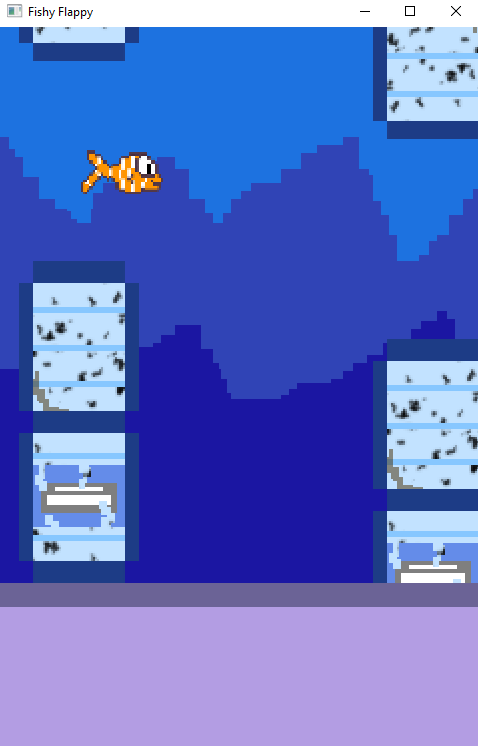
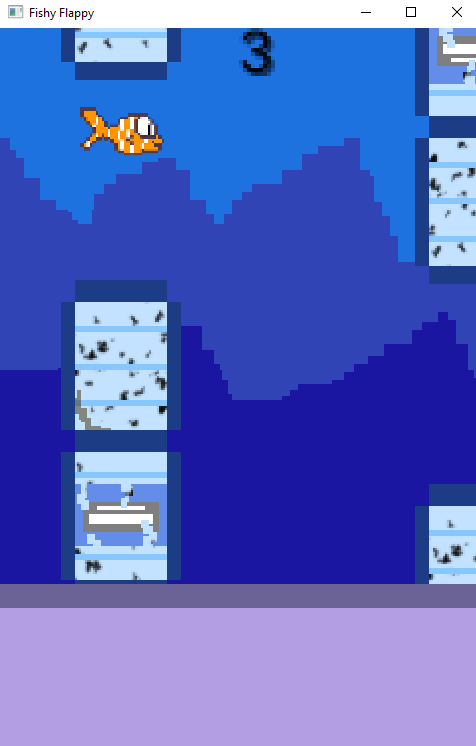
Guardar puntuaciones y highscore

diff --git a/core/src/com/erdarkniel/fishyflappy/states/GameOver.java b/core/src/com/erdarkniel/fishyflappy/states/GameOver.java
@@ -1,27 +1,62 @@
 package com.erdarkniel.fishyflappy.states;
 import com.badlogic.gdx.Gdx;
+import com.badlogic.gdx.Preferences;
 import com.badlogic.gdx.graphics.Color;
 import com.badlogic.gdx.graphics.Pixmap;
 import com.badlogic.gdx.graphics.Texture;
 import com.badlogic.gdx.graphics.g2d.BitmapFont;
 import com.badlogic.gdx.graphics.g2d.SpriteBatch;
+import com.badlogic.gdx.graphics.g2d.TextureRegion;
 import com.erdarkniel.fishyflappy.FishyFlappy;
+import com.erdarkniel.fishyflappy.sprites.Animation;
+
 public class GameOver extends State{
-    private final int MENUXLEFT=115,MENUXRIGHT=365,MENUYUP=645,MENUYDOWN=705;
-    private Texture bg,gotomenubtn,game_over;
+    private final int MENUXLEFT=115,MENUXRIGHT=959,MENUYUP=1342,MENUYDOWN=1555;
+    private Texture bg,gotomenubtn,game_over, newbest;
+    BitmapFont puntuacion;
+    BitmapFont hs;
+    private int highScore=0;
+    Animation nbanim;
+    Preferences prefs = Gdx.app.getPreferences("game preferences");
+    int score;
+    private boolean show = false;
     //private BitmapFont puntuacion;
     //private PlayState playState;
     public GameOver(GameStateManager gameStateManager) {
         super(gameStateManager);
         camera.setToOrtho(false, FishyFlappy.WIDTH/2, FishyFlappy.HEIGHT/2);
+        score = PlayState.getTotalScore();
+        puntuacion = new BitmapFont();
+        puntuacion.setColor(Color.WHITE);
+        puntuacion.getData().setScale(2);
+        hs = new BitmapFont();
+        hs.setColor(Color.WHITE);
+        hs.getData().setScale(2);
+
+
+
+        if (PlayState.totalscore > prefs.getInteger("highscore")) {
+            show = true;
+            prefs.putInteger("highscore", PlayState.totalscore);
+            prefs.flush();
+            highScore = PlayState.totalscore;
+
+        }
+
         Pixmap pixmapGT = new Pixmap(Gdx.files.internal("go-to-menu-btn.png"));
-        Pixmap pixmapPT = new Pixmap(200, 300, pixmapGT.getFormat());
+        Pixmap pixmapPT = new Pixmap(300, 440, pixmapGT.getFormat());
         pixmapPT.drawPixmap(pixmapGT,
                 0, 0, pixmapGT.getWidth(), pixmapGT.getHeight(),
                 0, 0, pixmapPT.getWidth(), pixmapPT.getHeight()
-        );
-        Pixmap pixmapG = new Pixmap(Gdx.files.internal("game_over.png"));
-        Pixmap pixmapP = new Pixmap(340, 200, pixmapG.getFormat());
+        );/*
+        Pixmap pixmapGR = new Pixmap(Gdx.files.internal("reload_button.png"));
+        Pixmap pixmapPR = new Pixmap(60, 60, pixmapGR.getFormat());
+        pixmapPT.drawPixmap(pixmapGR,
+                0, 0, pixmapGR.getWidth(), pixmapGR.getHeight(),
+                0, 0, pixmapPR.getWidth(), pixmapPR.getHeight()
+        );*/
+        Pixmap pixmapG = new Pixmap(Gdx.files.internal("game over.png"));
+        Pixmap pixmapP = new Pixmap(270, 450, pixmapG.getFormat());
         pixmapP.drawPixmap(pixmapG,
                 0, 0, pixmapG.getWidth(), pixmapG.getHeight(),
                 0, 0, pixmapP.getWidth(), pixmapP.getHeight()
@@ -29,27 +64,49 @@ public class GameOver extends State{
         bg = new Texture("bg.png");
         gotomenubtn = new Texture(pixmapPT);
         game_over = new Texture(pixmapP);
+
+        Pixmap pixmapGNB = new Pixmap(Gdx.files.internal("new best.png"));
+        Pixmap pixmapPNB = new Pixmap(540, 450, pixmapGNB.getFormat());
+        pixmapPNB.drawPixmap(pixmapGNB,
+                0, 0, pixmapGNB.getWidth(), pixmapGNB.getHeight(),
+                0, 0, pixmapPNB.getWidth(), pixmapPNB.getHeight()
+        );
+        newbest = new Texture(pixmapPNB);
+        nbanim = new Animation(new TextureRegion(newbest),2,0.5f);
+
+        //resume = new Texture(pixmapPR);
         /*puntuacion = new BitmapFont();
         puntuacion.setColor(Color.BLACK);
         puntuacion.getData().setScale(2);*/
         //playState = new PlayState(gameStateManager);
         //System.out.println(playState.arrayScore.get(playState.arrayScore.size()-1));
     }
+
     @Override
     protected void handleInput() {
 
         if (Gdx.input.getX()>=MENUXLEFT&&Gdx.input.getX()<=MENUXRIGHT&&
                 Gdx.input.getY()>=MENUYUP&&Gdx.input.getY()<=MENUYDOWN){
             if (Gdx.input.justTouched()){
+                PlayState.totalscore=0;
+                show = false;
                 gsm.set(new MenuState(gsm));//Devuelve al jugador al MenuState
             }
         }
+        //System.out.println(Gdx.input.getY()+""+camera.position.x);
+       //System.out.println("Posicion y "+Gdx.input.getY());
+
+
+       // System.out.println(prefs.getInteger("highScore"));
+
     }
 
     @Override
     public void update(float dt) {
         handleInput();
         camera.update();
+
+
     }
 
     @Override
@@ -58,8 +115,14 @@ public class GameOver extends State{
         spriteBatch.begin();
         //playState.puntuacion.draw(spriteBatch, String.valueOf(playState.totalscore),camera.position.x-(camera.viewportWidth/bg.getWidth()), camera.position.y+(camera.viewportHeight/2));
         spriteBatch.draw(bg,camera.position.x-(camera.viewportWidth/2),camera.position.y-(camera.viewportHeight/2));
-        spriteBatch.draw(gotomenubtn,camera.position.x - gotomenubtn.getWidth()/2,camera.position.y - gotomenubtn.getHeight());
-        spriteBatch.draw(game_over,camera.position.x - game_over.getWidth()/2,camera.position.y + game_over.getHeight()/10);
+        spriteBatch.draw(gotomenubtn,camera.position.x - gotomenubtn.getWidth()/2,camera.position.y - gotomenubtn.getHeight()+120);
+        spriteBatch.draw(game_over,-16,-50);
+        if(show)
+        spriteBatch.draw(getNewBest(), -16,-50);
+        puntuacion.draw(spriteBatch, String.valueOf(score),camera.position.x-(camera.viewportWidth/bg.getWidth()+5), camera.position.y+(camera.viewportHeight/2)-140);
+        hs.draw(spriteBatch, String.valueOf(prefs.getInteger("highscore")),camera.position.x-(camera.viewportWidth/bg.getWidth()+5), camera.position.y+(camera.viewportHeight/2)-210);
+
+
         spriteBatch.end();
     }
 
@@ -68,4 +131,6 @@ public class GameOver extends State{
         bg.dispose();
         gotomenubtn.dispose();
     }
+
+    public TextureRegion getNewBest() {return nbanim.getFrame();}
 }

diff --git a/core/src/com/erdarkniel/fishyflappy/states/PlayState.java b/core/src/com/erdarkniel/fishyflappy/states/PlayState.java
@@ -1,5 +1,7 @@
 package com.erdarkniel.fishyflappy.states;
 
+
+
 import com.badlogic.gdx.Gdx;
 import com.badlogic.gdx.audio.Music;
 import com.badlogic.gdx.graphics.Color;
@@ -9,11 +11,8 @@ import com.badlogic.gdx.graphics.g2d.SpriteBatch;
 import com.badlogic.gdx.math.Vector2;
 import com.badlogic.gdx.utils.Array;
 import com.erdarkniel.fishyflappy.FishyFlappy;
-import com.erdarkniel.fishyflappy.sprites.Fish;
 import com.erdarkniel.fishyflappy.sprites.Bottle;
-
-import java.util.ArrayList;
-import java.util.Collections;
+import com.erdarkniel.fishyflappy.sprites.Fish;
 
 public class PlayState extends State{
     private static final int bottle_SPACING = 125;
@@ -23,10 +22,12 @@ public class PlayState extends State{
     private Texture bg,ground;
     private Vector2 groundPos1,groundPos2;
     private Array<Bottle> bottles;
+
     //Puntuacion
     //ArrayList<Integer> arrayScore = new ArrayList<Integer>();
     /*private*/BitmapFont puntuacion;
-    int score = 0,totalscore=0;
+    int score = 0;
+    static int totalscore=0;
     //Musica del juego
     private Music music;
     public PlayState(GameStateManager gameStateManager) {
@@ -82,9 +83,14 @@ public class PlayState extends State{
                 //Gdx.app.log("Total Score", String.valueOf(totalscore));
             }
         }
+
+        //TRABAJAR SOBRE ESTE CON LA BASE DE DATOS
         if (fish.getPosition().y <= ground.getHeight()+GROUND_Y_OFFSET){
             gsm.set(new GameOver(gsm));
-            //Gdx.app.log("Total Score", String.valueOf(totalscore));
+            Gdx.app.log("Total Score", String.valueOf(totalscore));
+
+            totalscore = 0;
+
         }
         camera.update();
     }
@@ -137,5 +143,10 @@ public class PlayState extends State{
         Collections.sort(arrayScore);
         return totalscore;
     }*/
-    public void puause(){}
+    public static int getTotalScore(){
+
+        return totalscore;
+    }
+
+
 }

diff --git a/core/src/com/erdarkniel/fishyflappy/states/MenuState.java b/core/src/com/erdarkniel/fishyflappy/states/MenuState.java
@@ -5,9 +5,12 @@ import com.badlogic.gdx.graphics.Pixmap;
 import com.badlogic.gdx.graphics.Texture;
 import com.badlogic.gdx.graphics.g2d.SpriteBatch;
 import com.erdarkniel.fishyflappy.FishyFlappy;
+
+import jdk.internal.org.jline.utils.Display;
+
 public class MenuState extends State{
-    private final int PLAYXLEFT=130,PLAYXRIGHT=350,PLAYYUP=360,PLAYYDOWN=560;
-    private final int EXITXLEFT=80,EXITXRIGHT=400,EXITYUP=595,EXITYDOWN=700;
+    private final int PLAYXLEFT=(int)(Gdx.graphics.getWidth()/2.8),PLAYXRIGHT=(int)(Gdx.graphics.getWidth()-Gdx.graphics.getWidth()/2.8),PLAYYUP=(int)(Gdx.graphics.getHeight()-Gdx.graphics.getHeight()/2),PLAYYDOWN=(int)(Gdx.graphics.getHeight()-Gdx.graphics.getHeight()/4.407);
+    private final int EXITXLEFT=(int)(Gdx.graphics.getWidth()*0.165),EXITXRIGHT=(int)(Gdx.graphics.getWidth()*0.83981),EXITYUP=(int)(Gdx.graphics.getHeight()*0.8522),EXITYDOWN=(int)(Gdx.graphics.getHeight()*0.98606);
     private Texture bg,playBtn,title,fish,exit;
     public MenuState(GameStateManager gameStateManager) {
         super(gameStateManager);
@@ -60,8 +63,8 @@ public class MenuState extends State{
                 Gdx.app.exit();
             }
         }
-        //System.out.println("Posicion x "+Gdx.input.getX());
-        //System.out.println("Posicion y "+Gdx.input.getY());
+        //System.out.println(Gdx.graphics.getWidth());
+        System.out.println(Gdx.graphics.getHeight());
     }
 
     @Override

diff --git a/core/src/com/erdarkniel/fishyflappy/states/SplashScreen.java b/core/src/com/erdarkniel/fishyflappy/states/SplashScreen.java
@@ -8,7 +8,7 @@ import com.erdarkniel.fishyflappy.FishyFlappy;
 public class SplashScreen extends State{
     private float lifeTime;
     private Long delay = 2L; //1000 milliseconds per second, so 2 seconds.
-    private Texture title,fish;
+    private Texture title,fish, bg;
     public SplashScreen(GameStateManager gameStateManager) {
         super(gameStateManager);
         camera.setToOrtho(false, FishyFlappy.WIDTH/2, FishyFlappy.HEIGHT/2);
@@ -26,6 +26,7 @@ public class SplashScreen extends State{
                 0, 0, pixmapPF.getWidth(), pixmapPF.getHeight()
         );
         fish = new Texture(pixmapPF);
+        bg = new Texture(Gdx.files.internal("bg.png"));
     }
     @Override
     public void handleInput() {
@@ -45,6 +46,7 @@ public class SplashScreen extends State{
     public void render(SpriteBatch spriteBatch) {
         spriteBatch.setProjectionMatrix(camera.combined);
         spriteBatch.begin();
+        spriteBatch.draw(bg,camera.position.x-(camera.viewportWidth/2),camera.position.y-(camera.viewportHeight/2));
         spriteBatch.draw(title,camera.position.x - title.getWidth()/2,camera.position.y - title.getHeight());
         spriteBatch.draw(fish,camera.position.x - fish.getWidth()/2,camera.position.y);
         spriteBatch.end();

diff --git a/core/src/com/erdarkniel/fishyflappy/sprites/Fish.java b/core/src/com/erdarkniel/fishyflappy/sprites/Fish.java
@@ -21,7 +21,7 @@ public class Fish {
         position = new Vector3(x,y,0);
         velocity = new Vector3(0,0,0);
         Pixmap pixmapG = new Pixmap(Gdx.files.internal("fishanimation.png"));
-        Pixmap pixmapP = new Pixmap(100, 24, pixmapG.getFormat());
+        Pixmap pixmapP = new Pixmap(130, 24, pixmapG.getFormat());
         pixmapP.drawPixmap(pixmapG,
                 0, 0, pixmapG.getWidth(), pixmapG.getHeight(),
                 0, 0, pixmapP.getWidth(), pixmapP.getHeight()

diff --git a/README.md b/README.md
@@ -54,11 +54,41 @@ lo podemos encontrar en el archivo [Fish](./core/src/com/erdarkniel/fishyflappy/
 
 Actualmente el proyecto se encuentra como las imágenes mostradas a continuación.
 
-Falta realizar las animaciones del Splash Screen por lo que se ve todo azul.
+Actualmente contamos con un [SplashScreen](./core/src/com/erdarkniel/fishyflappy/states/SplashScreen.java) sencillo debido a que para poder reproducir un vídeo dentro de la aplicación es necesario importar una librería la cual nos
+da errores debido a los métodos de los cuales extiende (State), y al intentar reproducir un .gif la calidad de las imágenes disminuye y solo se muestra un solo frame,
+por lo que la solución encontrada fue dividir la animación en una secuencia de pngs, sin embargo, a la hora de redimensionar estás imágenes con pixmaps, las librerías
+no nos permiten su perfecta colocación mediante coordenadas, por lo que decidimos hacer un Splash Screen provisional mientras solucionamos el problema.
 
 ![Splash Screen](./Screenshots/splashscreen.png)
 
+En cuanto al [Menú principal](./core/src/com/erdarkniel/fishyflappy/states/MenuState.java) de la aplicación encontramos un error el cual era de que no podemos trabajar
+con coordenadas debido a que estas se guían por el tamaño de píxeles del dispositivo, por lo que la colocación de los botones era distinto en cada dispositivo que se jugara.
+Para solucionarlo, hemos implementado formulas matemáticas basándonos en las coordenadas originales de un dispositivo, de esta forma, para todos los dispositivos tenemos
+los botones perfectamente posicionados (capturas de la solución en la parte inferior a esta explicación).
+
+![Solución coordenadas en código](./Screenshots/coordenadas.png) ![Solución coordenadas en fórmula](./Screenshots/formula.png)
+
 ![Menu Screen](./Screenshots/menuscreen.png)
+
+En cuanto al [PlayState](./core/src/com/erdarkniel/fishyflappy/states/PlayState.java), los cambios implementados han sido poder introducir un sistema de puntuación el cual sume un punto al score cada vez que se pasen las botellas.
+Sin embargo esto es un modelo provisional, debido a que estamos realizando cambios para que las botellas esten flotando a lo largo de la pantalla y que, claramente sean más pequeñas,
+sin embargo, estamos teniendo problemas a la hora de modificar las físicas de las mismas (gravedad y velocidad), ya que cuanto más tiempo de partida pasa, van adquiriendo más velocidad
+y acaban saliendo las botellas de la pantalla, sin embargo, son cambios los cuales estamos trabajando en ello. Otro problema que también nos encontramos es a la hora de
+implementar la base de datos para poder guardar el 'highscore' del dispositivo, puesto que el método execute() no ejecuta de manera correcta el comando SQL que mandamos,
+por lo que de momento no está implementado en su totalidad para que el juego aún así pueda ser jugable. Sin embargo, recalco, son errores en los cuales estamos trabajando y
+avanzando para hacer de la aplicación un juego completo.
 
 ![In Game Footage](./Screenshots/gameplayfootage.png)
 
+Hemos agregado una pantalla de [Game Over](./core/src/com/erdarkniel/fishyflappy/states/GameOver.java) para cuando el jugador colisione tanto con el suelo como con una botella.
+De momento hemos implementado que el jugador pueda ver la puntuación que ha logrado, y un botón para volver al menú principal para poder volver a jugar. En este State
+de la aplicación también se vería el 'highscore' almacenado en la base de datos, pero, como hemos mencionado antes, tenemos problemas a la hora de introducirlo, por lo que,
+repito, para que el juego pueda ser funcional y semicompleto, de momento no es visible a la hora de jugarlo.
+
+![Game Over](./Screenshots/gameover.png)
+
+En cuanto al logo de la aplicación hemos hecho que sea adaptativo y que esté divido en varias capas, es decir, tiene distintas resoluciones para los distintos dispositivos,
+y el sistema de capas permite darle profundidad, puesto que el pez y el fondo están dividos en 2 XML distinto, esto se puede apreciar al mover la aplicación en el menú
+principal del móvil y dejando caer la aplicación, como el pez se mueve al centro del logo con más delay que el fondo.
+
+![Aplicación en escritorio](./Screenshots/movil.jpg)
